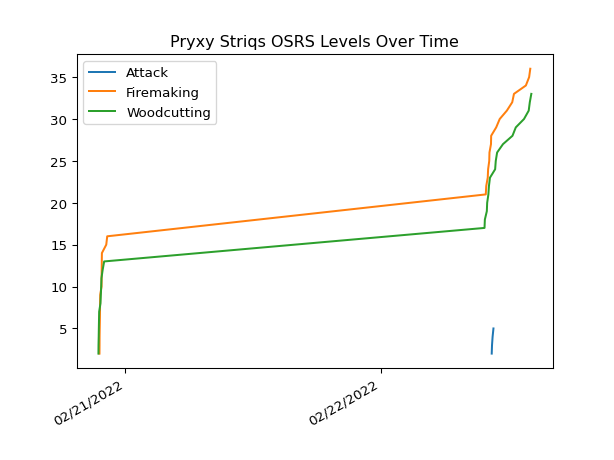
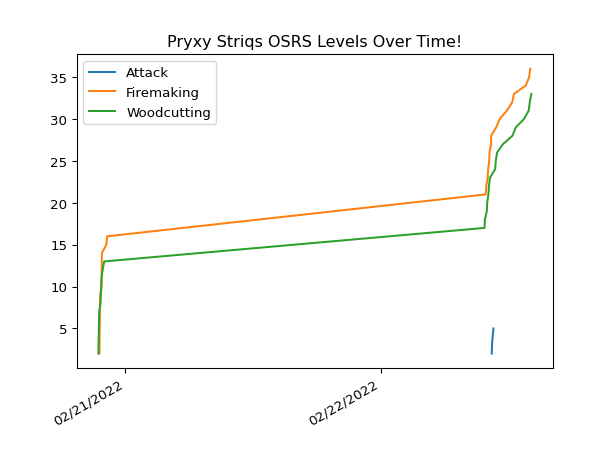
New Level

Changed region(s): [[0.2785, 0.0609, 0.7427, 0.1217]]

diff --git a/main.py b/main.py
@@ -35,7 +35,7 @@ def onboard_images_to_db():
 
 
 def graph_data():
-    plt.title(f"{user} OSRS Levels Over Time")
+    plt.title(f"{user} OSRS Levels Over Time!")
     plt.gca().xaxis.set_major_formatter(mdates.DateFormatter('%m/%d/%Y'))
     plt.gca().xaxis.set_major_locator(mdates.DayLocator())
 
